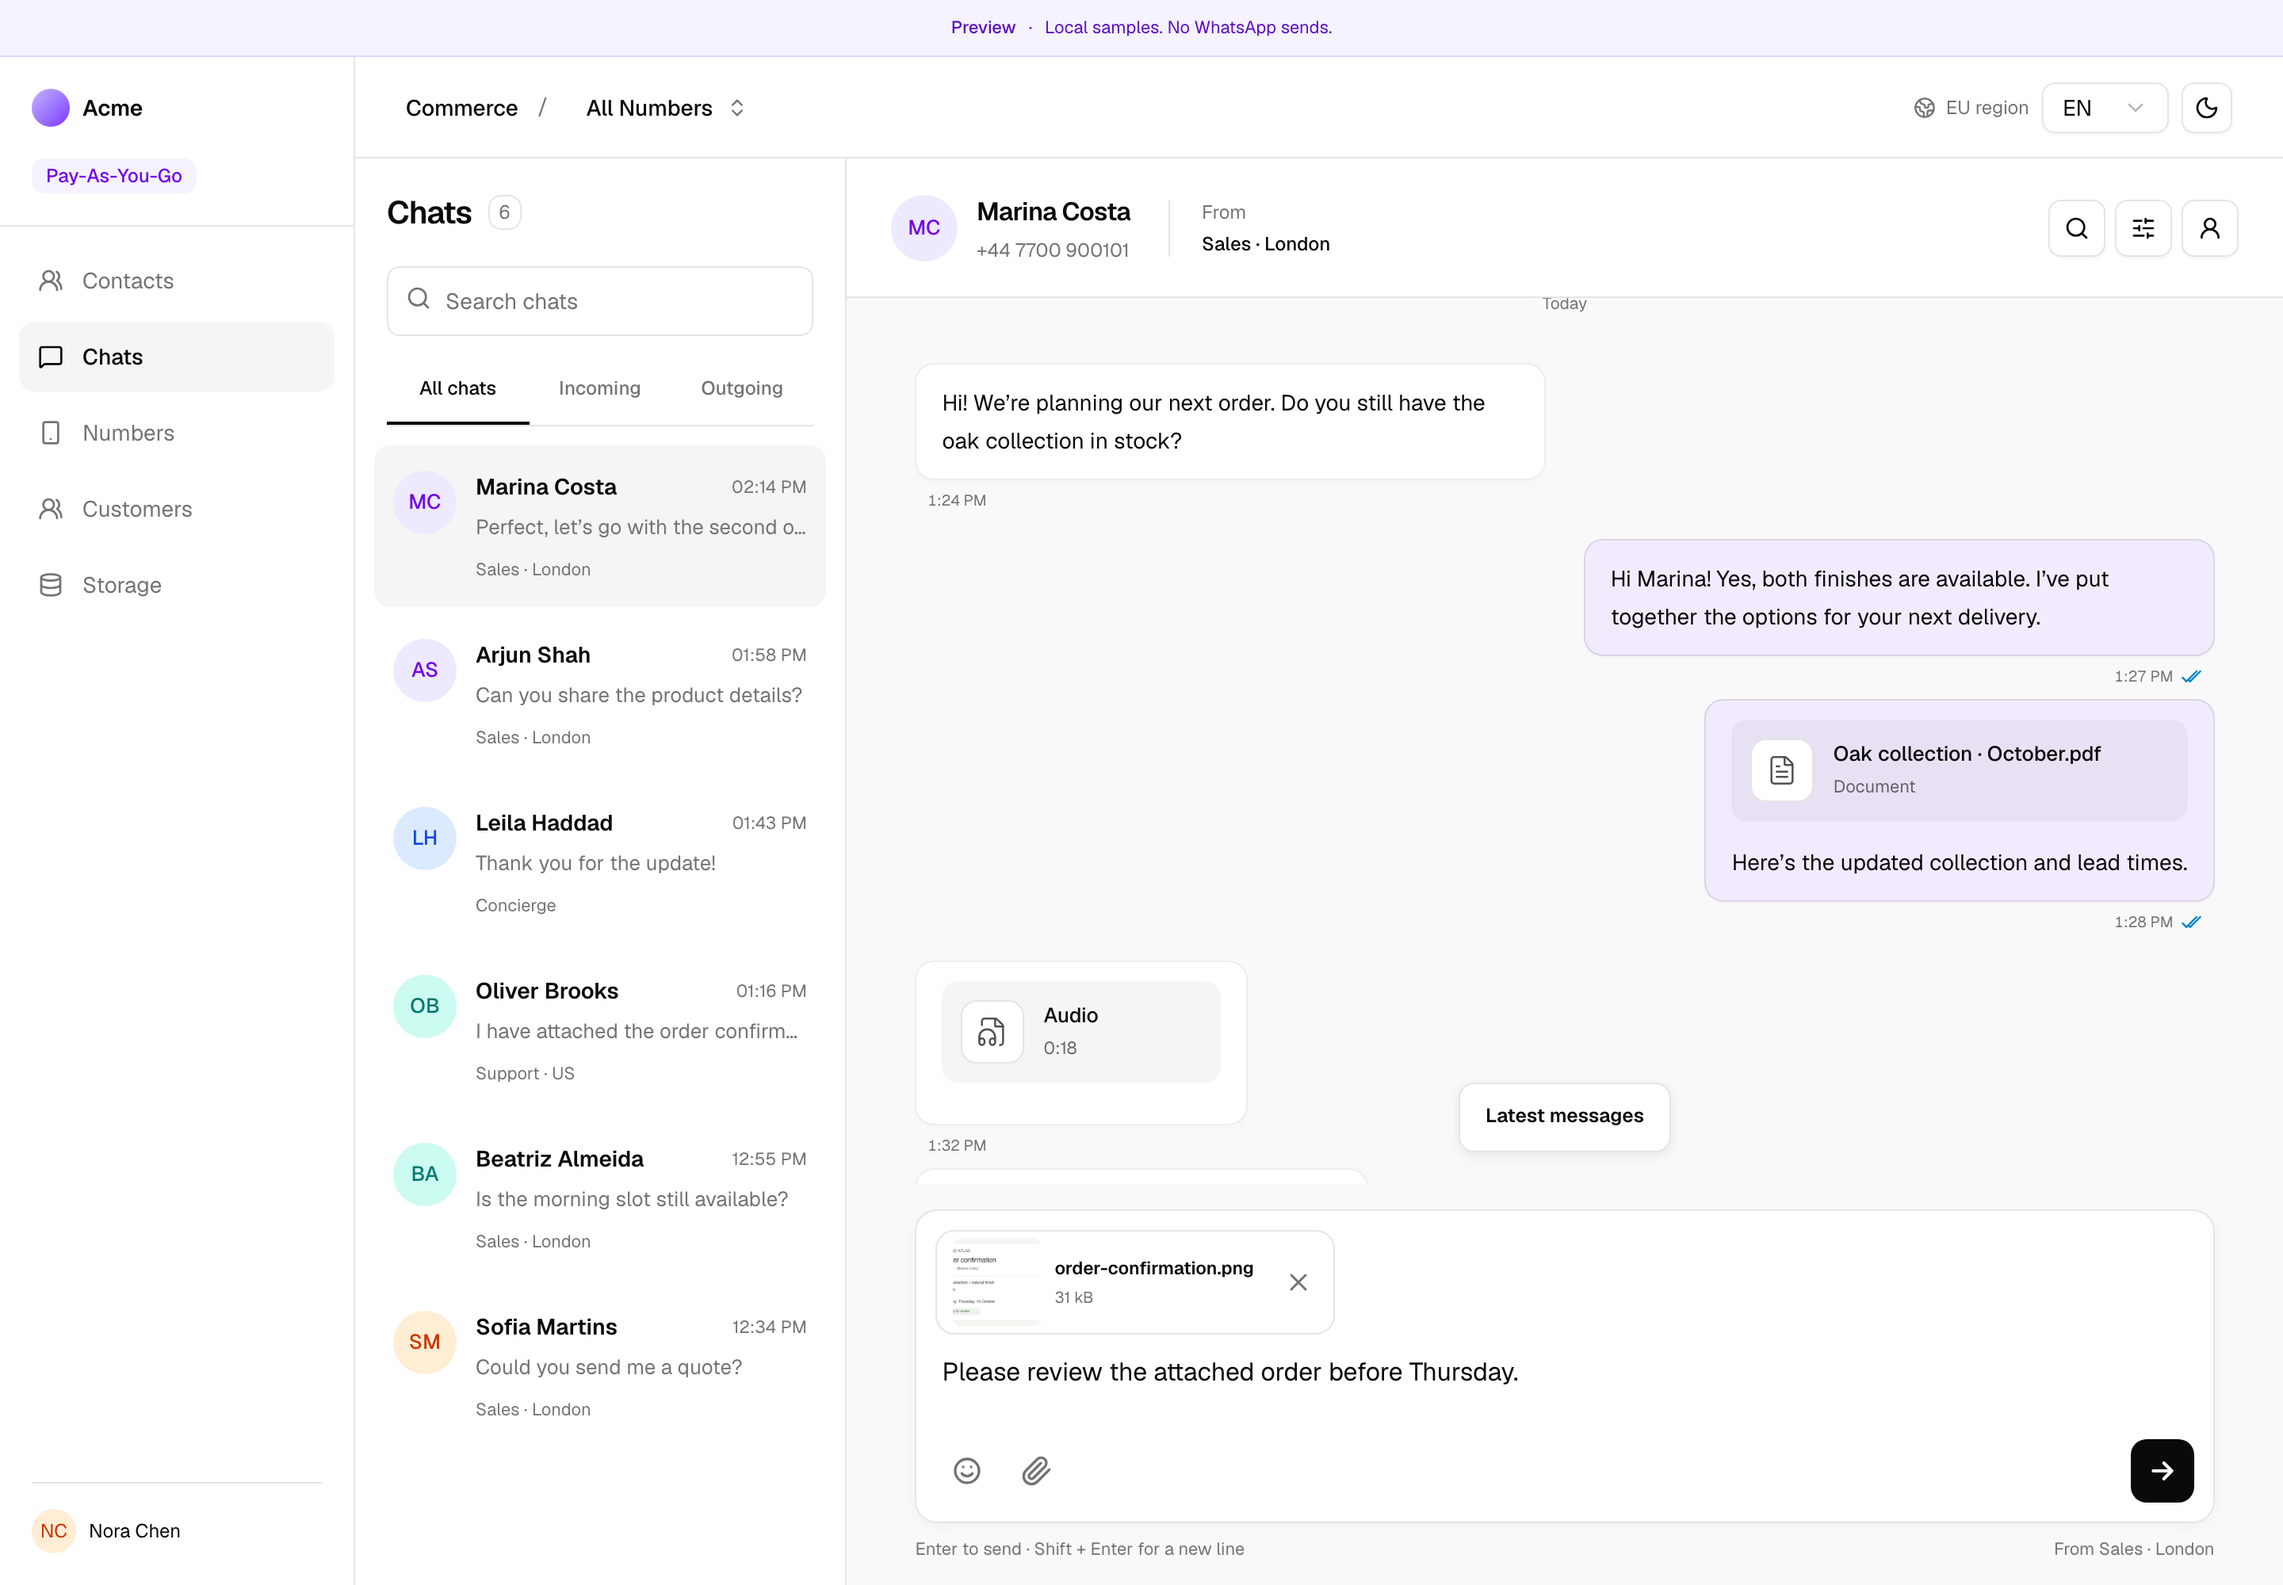
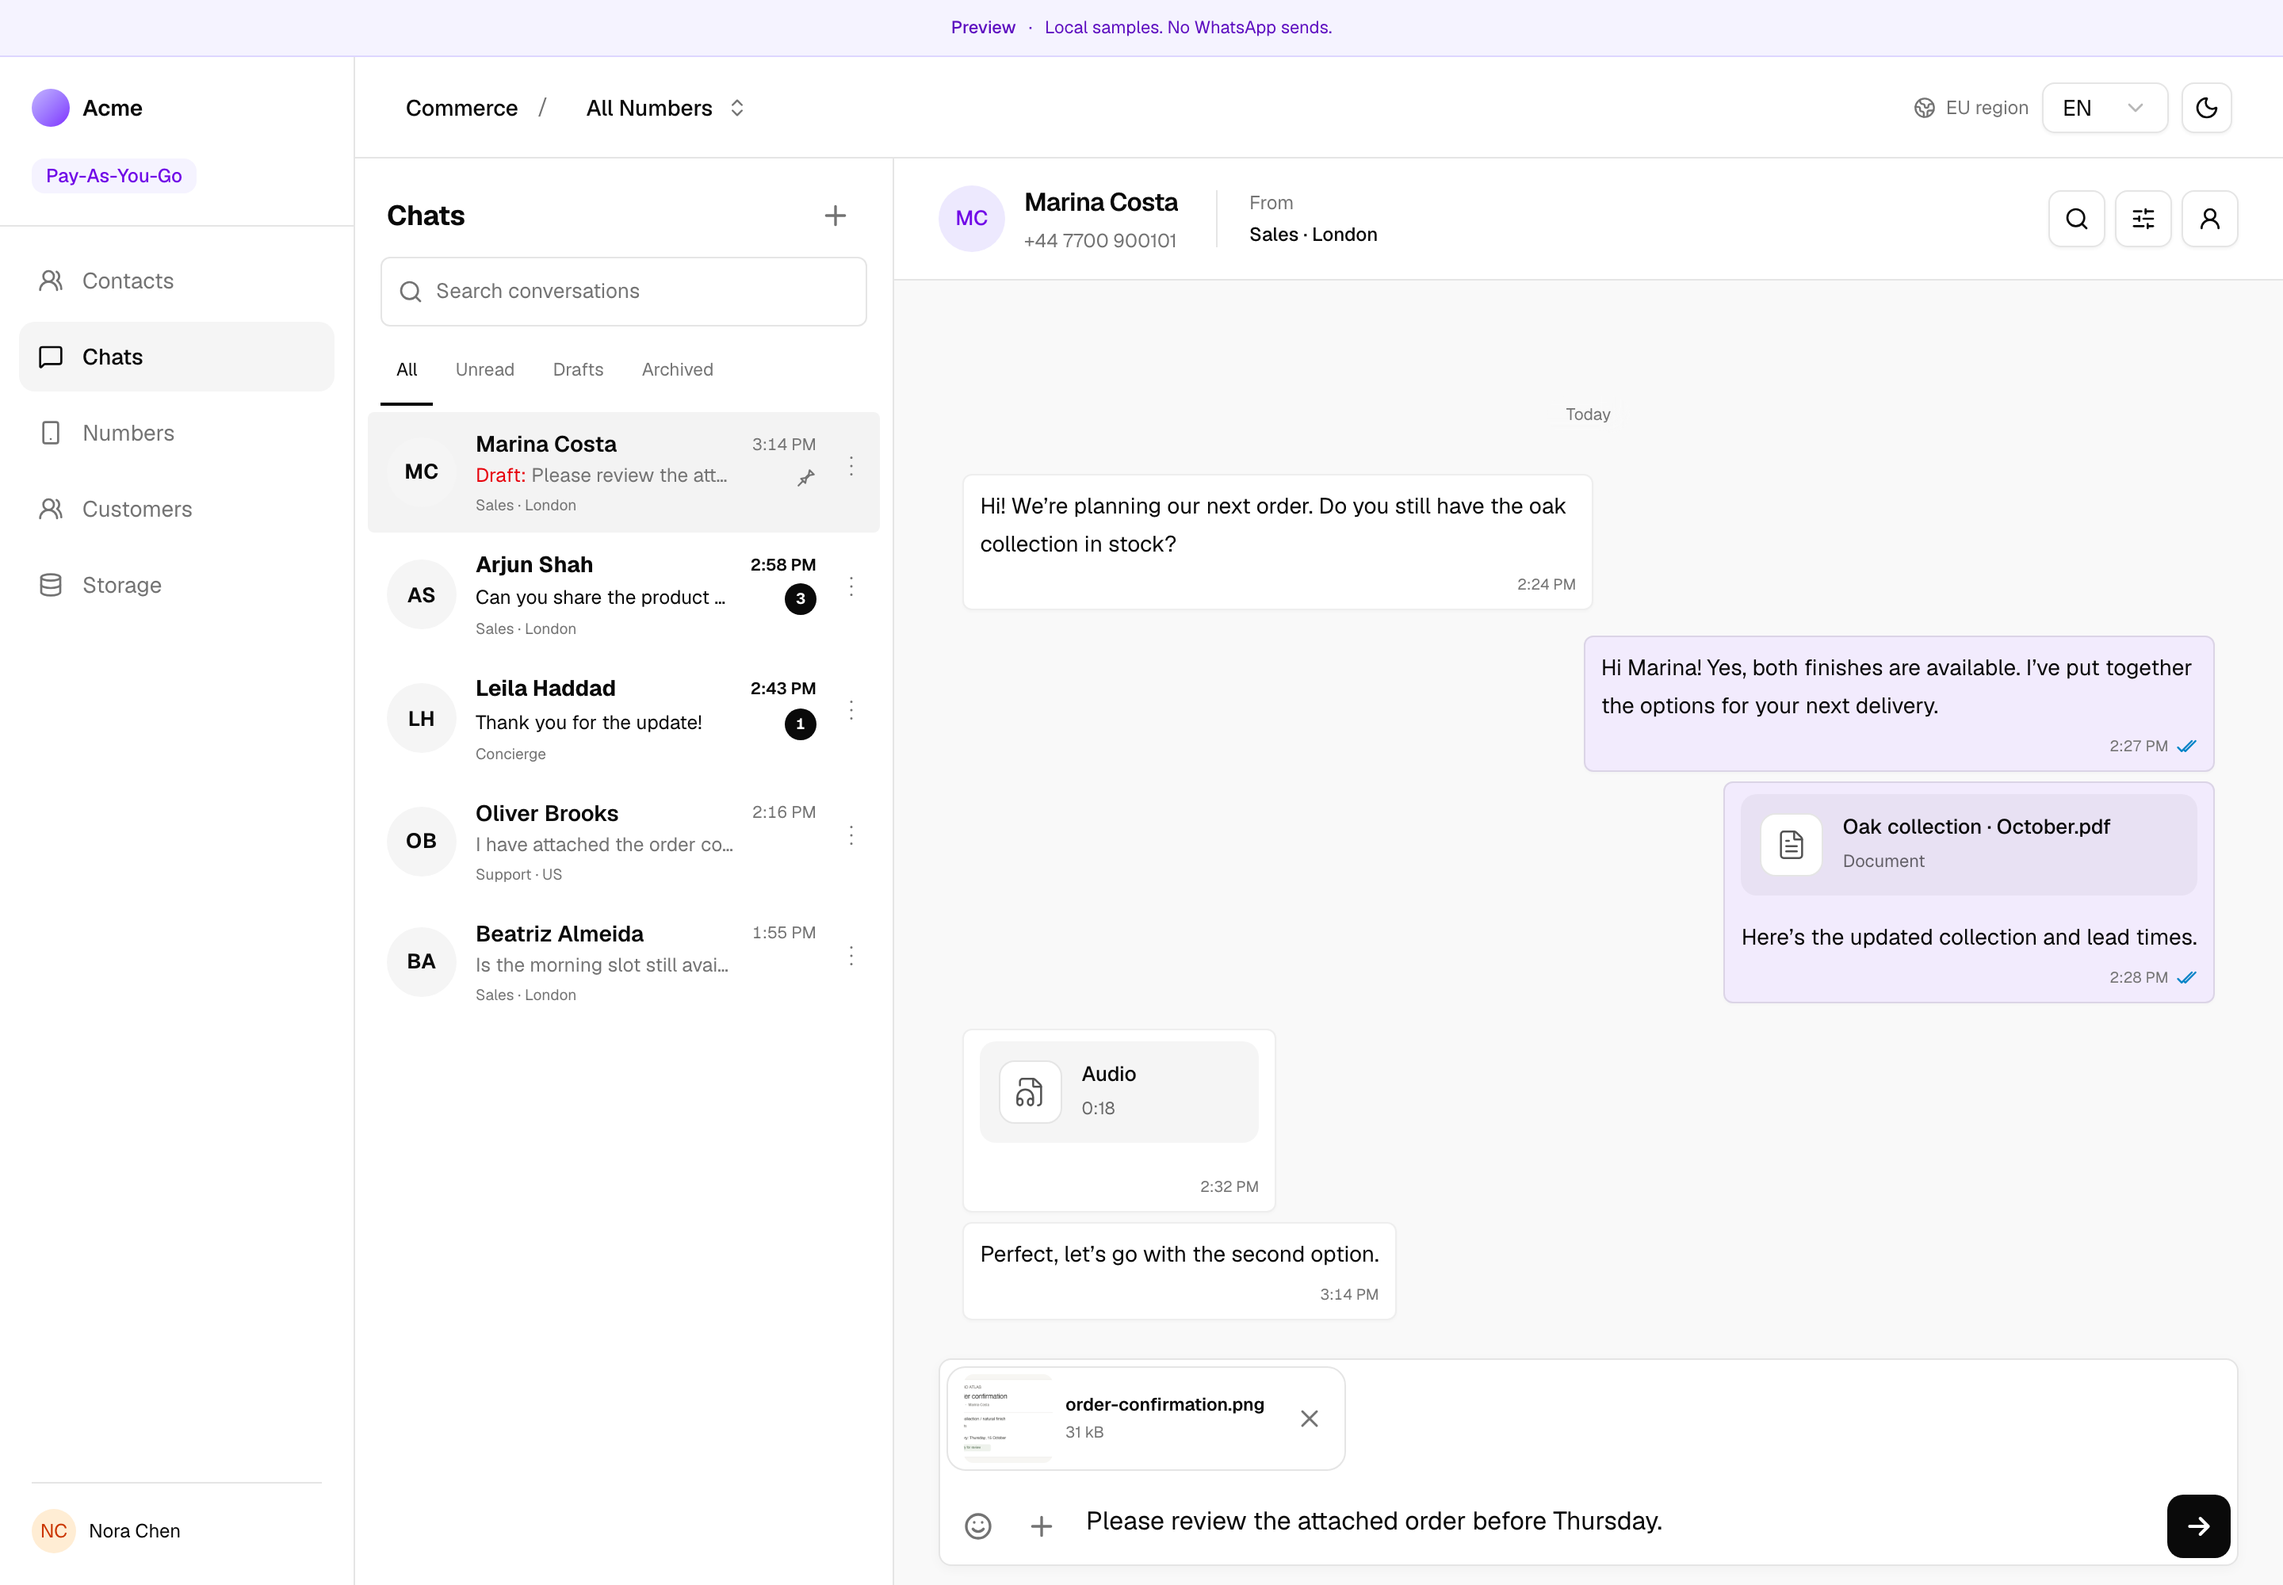
docs(ui): refresh native chat and inbox evidence at 2x

diff --git a/docs/chat-ui-evidence.md b/docs/chat-ui-evidence.md
@@ -27,3 +27,21 @@ fixture uses a local file and Blob URL. Chromium captured full-length PNGs at
 ## Failed send
 
 ![Failed send preserves the draft](images/chat-window/chats-failed-send-2x.png)
+
+## Native inbox
+
+![Mobile inbox with observed unread rows](images/chat-window/chats-inbox-mobile-2x.png)
+
+![Host-provided action menu](images/chat-window/chats-actions-desktop-2x.png)
+
+![Actual SDK draft previews](images/chat-window/chats-drafts-desktop-2x.png)
+
+![Inline quoted reply](images/chat-window/chats-reply-desktop-2x.png)
+
+![Mutation failure preserves observed state](images/chat-window/chats-action-failed-desktop-2x.png)
+
+![Dark theme and unread badge contrast](images/chat-window/chats-dark-desktop-2x.png)
+
+Action menus acknowledge local sample callbacks only. WhatsApp synchronization
+requires authorized host adapters and supported producer contracts; it is not
+performed by this preview.
